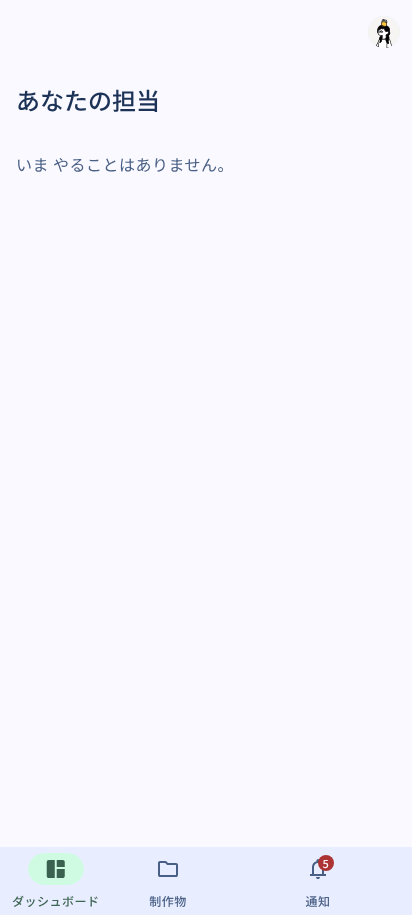
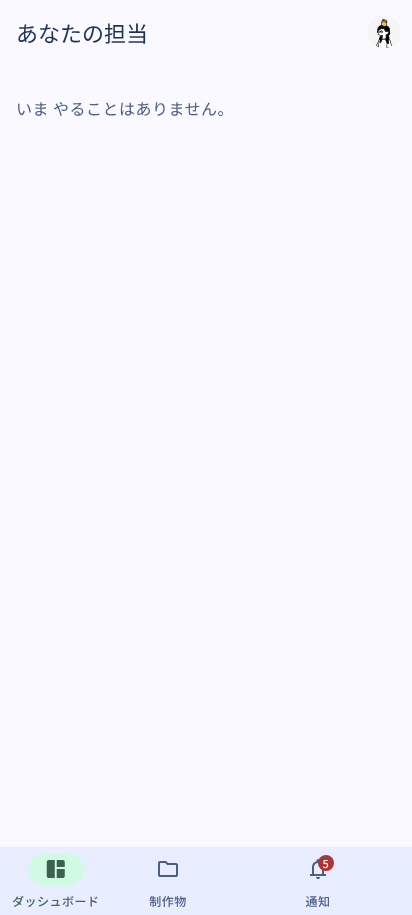
web: 画面の見出し（あなたの担当・制作物・管理）を共通アプリバーへ
M3 App bars の「ページの見出しはアプリバーに置く」をエディタ以外にも適用。
各画面は AppBarSlot slot="title" で差し込み、内容側の見出し行
（.page-header、ui/PageHeader.tsx）は削除。受け皿に role="heading"
aria-level=1 を付けて h1 を兼ねる。先頭ボタンが無い画面では見出しをバーの端
から 16 に。内容の上余白は 8 → 16。
docs: UI_M3E §17 末尾（アイコンの高さの原則）と §18、DECISIONS、
SCREENSHOTS、HANDOVER を更新。スクリーンショット 37 枚と a11y を再取得。

Claude-Session: https://claude.ai/code/session_01X9TznCihnnBEBhcMh6UZ9t

diff --git a/apps/web/src/routes/_app.tsx b/apps/web/src/routes/_app.tsx
@@ -32,7 +32,7 @@ const readRailPref = () => {
 
 /**
  * 認証ガード＋共通レイアウト。M3 のウィンドウサイズクラスで骨格を切り替える（Layout › Window size classes）。
- * - compact（<600）: アプリバーはアカウントだけ。下部ナビゲーションバー 3 件（ダッシュボード・制作物・通知）。
+ * - compact（<600）: アプリバーは見出しとアカウントだけ。下部ナビゲーションバー 3 件（ダッシュボード・制作物・通知）。
  *   エディタ（`/works/:id`）では下部バーを隠す（詳細画面）。アプリバーはどの幅でも 1 本で、エディタが戻る・題名・操作を差し込む。
  * - medium（600–839）/ expanded（840–1199）: 折りたたみレール（96）。メニューを押すと**モーダル**の展開レールが重なる（スクリム、Esc で閉じる）。
  * - large（1200 以上）: メニューで**標準**の展開レール（220）に広がり内容を押す。状態は保存。既定は折りたたみ。
@@ -164,7 +164,13 @@ function AppLayout() {
         {/* アプリバーは 1 本。画面ごとの見出し・戻る・操作は AppBarSlot で差し込む（M3 App bars）。全体の操作（通知・アカウント）は末尾 */}
         <M3eAppBar size="small" className="shell__appbar">
           <span slot="leading" id="appbar-leading" className="appbar-slot" />
-          <span slot="title" id="appbar-title" className="appbar-slot appbar-slot--title" />
+          <span
+            slot="title"
+            id="appbar-title"
+            className="appbar-slot appbar-slot--title"
+            role="heading"
+            aria-level={1}
+          />
           <span
             slot="subtitle"
             id="appbar-subtitle"

diff --git a/apps/web/src/routes/_app/works/index.tsx b/apps/web/src/routes/_app/works/index.tsx
@@ -5,14 +5,8 @@ import { useState } from "react";
 import { NewWorkDialog } from "@/features/work/NewWorkDialog";
 import { formatJstDate } from "@/lib/format";
 import { lifecycleLabel } from "@/lib/labels";
-import {
-  M3eActionList,
-  M3eFilterChip,
-  M3eFilterChipSet,
-  M3eHeading,
-  M3eIcon,
-  M3eListAction,
-} from "@/ui/m3e";
+import { AppBarSlot } from "@/ui/AppBarSlot";
+import { M3eActionList, M3eFilterChip, M3eFilterChipSet, M3eIcon, M3eListAction } from "@/ui/m3e";
 
 export const Route = createFileRoute("/_app/works/")({
   validateSearch: (s: Record<string, unknown>): { q?: string; new?: boolean } => ({
@@ -24,7 +18,7 @@ export const Route = createFileRoute("/_app/works/")({
 
 /**
  * U-02 制作物。探して開くだけの入口。行を押すとエディタ（最新版）が開く。登録はレールの FAB「制作物を登録」が開くダイアログ（`?new=1`）。
- * 検索語はアプリバーの検索から `q` で渡る。
+ * 検索語は `q` で渡る（検索バーは一旦外している）。見出し「制作物」は共通アプリバーに差し込む（M3 App bars）。
  */
 function Works() {
   const { q, new: creating } = Route.useSearch();
@@ -46,17 +40,7 @@ function Works() {
 
   return (
     <div className="works">
-      <header className="page-header">
-        <M3eHeading
-          variant="headline"
-          size="small"
-          level={1}
-          emphasized
-          className="page-header__title"
-        >
-          制作物
-        </M3eHeading>
-      </header>
+      <AppBarSlot slot="title">制作物</AppBarSlot>
       <M3eFilterChipSet aria-label="状態で絞り込み" className="works__filters">
         {(["active", "on_hold", "finalized"] as const).map((k) => (
           <M3eFilterChip

diff --git a/apps/web/src/routes/_app/index.tsx b/apps/web/src/routes/_app/index.tsx
@@ -3,6 +3,7 @@ import { createFileRoute, useNavigate } from "@tanstack/react-router";
 import { useQuery } from "convex/react";
 import type { FunctionReturnType } from "convex/server";
 import { formatJstDate, remaining } from "@/lib/format";
+import { AppBarSlot } from "@/ui/AppBarSlot";
 import { M3eActionList, M3eHeading, M3eListAction } from "@/ui/m3e";
 
 export const Route = createFileRoute("/_app/")({ component: Dashboard });
@@ -38,6 +39,7 @@ const backlogGroups: Array<[keyof Dashboard["backlog"], string, (i: Item) => str
 /**
  * U-00 ダッシュボード。開いた瞬間に「次に何をするか」が分かる画面。
  * 上: あなたの担当（役割ごとに自動で出る）。下: 自分が関わる制作物で溜まっているもの。行を押すとエディタへ直行。
+ * 画面の見出し「あなたの担当」は共通アプリバーに差し込む（M3 App bars: 見出しはアプリバーに置く）。
  */
 function Dashboard() {
   const data = useQuery(api.dashboard.get, {});
@@ -66,17 +68,7 @@ function Dashboard() {
 
   return (
     <div>
-      <header className="page-header">
-        <M3eHeading
-          variant="headline"
-          size="small"
-          level={1}
-          emphasized
-          className="page-header__title"
-        >
-          あなたの担当
-        </M3eHeading>
-      </header>
+      <AppBarSlot slot="title">あなたの担当</AppBarSlot>
       <div className="dash">
         <section className="dash__section">
           {mine.length === 0 ? (

diff --git a/apps/web/src/routes/_app/admin.tsx b/apps/web/src/routes/_app/admin.tsx
@@ -10,7 +10,7 @@ import { Card } from "@/ui/Card";
 import { StatusChip, StatusText } from "@/ui/Chip";
 import { AclPanel } from "@/features/work/AclPanel";
 import { M3eButton, M3eDialog, M3eIcon, M3eSearchBar } from "@/ui/m3e";
-import { PageHeader } from "@/ui/PageHeader";
+import { AppBarSlot } from "@/ui/AppBarSlot";
 
 export const Route = createFileRoute("/_app/admin")({ component: Admin });
 
@@ -27,11 +27,17 @@ function Admin() {
     await setAdmin({ userId: userId as Id<"users">, value });
   });
   if (!me) return null;
+  const title = <AppBarSlot slot="title">管理</AppBarSlot>;
   if (!me.isSystemAdmin)
-    return <div className="alert">管理画面は校正システム管理者のみ利用できます。</div>;
+    return (
+      <>
+        {title}
+        <div className="alert">管理画面は校正システム管理者のみ利用できます。</div>
+      </>
+    );
   return (
     <>
-      <PageHeader title="管理" />
+      {title}
       <div className="stack">
         <Card title="作品ごとの閲覧権限（個人 ACL）">
           <div className="table-wrap" tabIndex={0}>

diff --git a/docs/DECISIONS.md b/docs/DECISIONS.md
@@ -22,20 +22,20 @@
 
 ## 実装上の仮置き（制度ではなく技術判断。レビュー対象）
 
-| 項目                     | 仮置き                                                                                                                                                                                                                                                                                                                                                                                                                                                                                                                                                                                                                                                                                                                                                                                                                                    | 根拠・備考                                                                                                       |
-| ------------------------ | ----------------------------------------------------------------------------------------------------------------------------------------------------------------------------------------------------------------------------------------------------------------------------------------------------------------------------------------------------------------------------------------------------------------------------------------------------------------------------------------------------------------------------------------------------------------------------------------------------------------------------------------------------------------------------------------------------------------------------------------------------------------------------------------------------------------------------------------- | ---------------------------------------------------------------------------------------------------------------- |
-| 制作物の登録者           | **Nogiku の権限で管理する（利用者決定 2026-10-10）**。組織権限 `works:create` を要求。Nogiku Access 未接続の MVP では全員が `["*"]` を持ち制限なし。登録者は主管担当に含まれる                                                                                                                                                                                                                                                                                                                                                                                                                                                                                                                                                                                                                                                            | `packages/domain/src/acl/OrgPermission.ts`。接続時は `NOGIKU_ACCESS_ENABLED=true` と `users.orgPermissions` 同期 |
-| システム管理者の初期設定 | 環境変数 `MF100_SYSTEM_ADMIN_SUBJECTS` の Nogiku sub を初回ログインで昇格。以後は管理画面                                                                                                                                                                                                                                                                                                                                                                                                                                                                                                                                                                                                                                                                                                                                                 | ブートストラップ手段が必要                                                                                       |
-| ACL 候補ユーザー         | 一度でもログインした Nogiku ユーザーのみ検索可                                                                                                                                                                                                                                                                                                                                                                                                                                                                                                                                                                                                                                                                                                                                                                                            | Nogiku Access `users.read` 連携は後続                                                                            |
-| 校正者の割当             | **Nogiku の役職・個人で管理する（利用者決定）**。組織権限 `reviews:assign` または作品の制作者・edit 委任者。割当は閲覧 ACL を自動付与しない                                                                                                                                                                                                                                                                                                                                                                                                                                                                                                                                                                                                                                                                                               | 同上。閲覧範囲（D3）は管理者 ACL に集約                                                                          |
-| 校正の返信               | 受付中: 投稿権限者 / 終了後: 採否判断者のみ（**このままで良い — 利用者確認 2026-10-10**）                                                                                                                                                                                                                                                                                                                                                                                                                                                                                                                                                                                                                                                                                                                                                 | D5 の暫定を維持                                                                                                  |
-| 0版の再提出              | **可**（利用者決定 2026-10-10）。通常版提出前に限る。0版からの校了は**不可**                                                                                                                                                                                                                                                                                                                                                                                                                                                                                                                                                                                                                                                                                                                                                              | `planRevision`                                                                                                   |
-| 期限ジョブ               | 1 分間隔の cron。拒否自体は各 mutation の時刻比較                                                                                                                                                                                                                                                                                                                                                                                                                                                                                                                                                                                                                                                                                                                                                                                         | ジョブ遅延に依存しない（A-04）                                                                                   |
-| ユーザー指定 UI          | **v1**: サインイン済みの委員を名前・メールで検索して選ぶ（`users.search` / `UserPicker`）。候補は一度でもログインしたユーザー                                                                                                                                                                                                                                                                                                                                                                                                                                                                                                                                                                                                                                                                                                             | Nogiku Access のユーザー一覧連携後は `users.search` の実装差し替えのみ                                           |
-| 指摘の担当者・訂正・持越 | **v1**: 担当者は採否判断権限者が指定。本文訂正は投稿者本人のみで原文は履歴に残す。持越は新版受付中に採否判断権限者が人手で実行（位置は引き継がない）                                                                                                                                                                                                                                                                                                                                                                                                                                                                                                                                                                                                                                                                                      | AI 提案（D13）は後続                                                                                             |
-| コメントの分類           | **投稿者は分類しない**（利用者決定 2026-10-13）。UI は本文のみ。内部では種別「修正提案」・重大度「重要」で保存し、未解決が残れば理由なしの校了を拒否。採否は 反映済／不採用／次版へ持越 の 3 つ                                                                                                                                                                                                                                                                                                                                                                                                                                                                                                                                                                                                                                           | 「重大」の明示や重大度変更は D6 の協議後                                                                         |
-| 締切・納期の単位         | **日付のみ**（その日の 0:00 JST、利用者決定 2026-10-13）。表示に JST は書かない                                                                                                                                                                                                                                                                                                                                                                                                                                                                                                                                                                                                                                                                                                                                                           | `DateField` / `jstDateToEpoch`                                                                                   |
-| 画面構成（UI）           | **比較ページから利用者が選択（2026-10-13）**: 左メニュー＋検索バー＋右上アカウント、一覧は 2 行のリスト、制作物は左一覧・右中身、詳細は版が主役で情報は右、校正画面は下部ツールバー＋レイアウト 3 種（横一覧／ピンの高さに整列／ピンだけ）＋範囲指定で即投稿、コメントは Google ドキュメント式（✓ と ⋮）、版提出はダイアログ、版比較あり                                                                                                                                                                                                                                                                                                                                                                                                                                                                                                  | [`UI_M3E.md`](UI_M3E.md) §10                                                                                     |
-| 画面構成（IA）           | **3 画面＋管理（利用者決定 2026-10-13）**: ダッシュボード（担当・溜まっているもの、自分が関わる制作物のみ）／制作物（一覧＋登録ダイアログ）／エディタ（`/works/:id`、`/works/:id/v/N`。引き出し コメント／版／情報）。通知はベルのパネルだけ。左メニューは 2 つ                                                                                                                                                                                                                                                                                                                                                                                                                                                                                                                                                                           | [`UI_M3E.md`](UI_M3E.md) §11                                                                                     |
-| サイドバーとレイアウト   | **M3 のウィンドウサイズクラスに従う（利用者承認 2026-10-14）**: compact（<600）は下部バー 3 件（ダッシュボード・制作物・通知）、medium 以上はレール（メニュー・FAB「制作物を登録」・行き先）。expanded（840–1199）はモーダル展開、large（≥1200）は標準展開で既定は折りたたみ。補助ペインは expanded 360 / large 以上 412（Scaffold: bars / rails / panes、スペーサー 24）。余白は compact 16 / medium 以上 24（原典で確定）。通知は medium 以上が幅 360 の浮遊パネル、compact はボトムシート。バッジ・検索バー・メニューは規定寸法。medium でもモーダル展開レール、固定ペインはドラッグハンドルでリサイズ（360 / 412 スナップ・折りたたみ）、compact の補助的な選択はボトムシート、RTL は論理プロパティで鏡映（§15 監査）。折りたたみレールはアイコンのみ（ラベルはツールチップ。展開で項目が動かないように。M3 Expressive からは外れる） | [`UI_M3E.md`](UI_M3E.md) §12–15                                                                                  |
-| 版の無効化               | **v1**: 受付中の版のみ、提出権限者が理由付きで無効化。番号は欠番                                                                                                                                                                                                                                                                                                                                                                                                                                                                                                                                                                                                                                                                                                                                                                          | §5.1 `void`。校了済み・受付終了後は不可                                                                          |
+| 項目                     | 仮置き                                                                                                                                                                                                                                                                                                                                                                                                                                                                                                                                                                                                                                                                                                                                                                                                                                                                                                                                                                                          | 根拠・備考                                                                                                       |
+| ------------------------ | ----------------------------------------------------------------------------------------------------------------------------------------------------------------------------------------------------------------------------------------------------------------------------------------------------------------------------------------------------------------------------------------------------------------------------------------------------------------------------------------------------------------------------------------------------------------------------------------------------------------------------------------------------------------------------------------------------------------------------------------------------------------------------------------------------------------------------------------------------------------------------------------------------------------------------------------------------------------------------------------------- | ---------------------------------------------------------------------------------------------------------------- |
+| 制作物の登録者           | **Nogiku の権限で管理する（利用者決定 2026-10-10）**。組織権限 `works:create` を要求。Nogiku Access 未接続の MVP では全員が `["*"]` を持ち制限なし。登録者は主管担当に含まれる                                                                                                                                                                                                                                                                                                                                                                                                                                                                                                                                                                                                                                                                                                                                                                                                                  | `packages/domain/src/acl/OrgPermission.ts`。接続時は `NOGIKU_ACCESS_ENABLED=true` と `users.orgPermissions` 同期 |
+| システム管理者の初期設定 | 環境変数 `MF100_SYSTEM_ADMIN_SUBJECTS` の Nogiku sub を初回ログインで昇格。以後は管理画面                                                                                                                                                                                                                                                                                                                                                                                                                                                                                                                                                                                                                                                                                                                                                                                                                                                                                                       | ブートストラップ手段が必要                                                                                       |
+| ACL 候補ユーザー         | 一度でもログインした Nogiku ユーザーのみ検索可                                                                                                                                                                                                                                                                                                                                                                                                                                                                                                                                                                                                                                                                                                                                                                                                                                                                                                                                                  | Nogiku Access `users.read` 連携は後続                                                                            |
+| 校正者の割当             | **Nogiku の役職・個人で管理する（利用者決定）**。組織権限 `reviews:assign` または作品の制作者・edit 委任者。割当は閲覧 ACL を自動付与しない                                                                                                                                                                                                                                                                                                                                                                                                                                                                                                                                                                                                                                                                                                                                                                                                                                                     | 同上。閲覧範囲（D3）は管理者 ACL に集約                                                                          |
+| 校正の返信               | 受付中: 投稿権限者 / 終了後: 採否判断者のみ（**このままで良い — 利用者確認 2026-10-10**）                                                                                                                                                                                                                                                                                                                                                                                                                                                                                                                                                                                                                                                                                                                                                                                                                                                                                                       | D5 の暫定を維持                                                                                                  |
+| 0版の再提出              | **可**（利用者決定 2026-10-10）。通常版提出前に限る。0版からの校了は**不可**                                                                                                                                                                                                                                                                                                                                                                                                                                                                                                                                                                                                                                                                                                                                                                                                                                                                                                                    | `planRevision`                                                                                                   |
+| 期限ジョブ               | 1 分間隔の cron。拒否自体は各 mutation の時刻比較                                                                                                                                                                                                                                                                                                                                                                                                                                                                                                                                                                                                                                                                                                                                                                                                                                                                                                                                               | ジョブ遅延に依存しない（A-04）                                                                                   |
+| ユーザー指定 UI          | **v1**: サインイン済みの委員を名前・メールで検索して選ぶ（`users.search` / `UserPicker`）。候補は一度でもログインしたユーザー                                                                                                                                                                                                                                                                                                                                                                                                                                                                                                                                                                                                                                                                                                                                                                                                                                                                   | Nogiku Access のユーザー一覧連携後は `users.search` の実装差し替えのみ                                           |
+| 指摘の担当者・訂正・持越 | **v1**: 担当者は採否判断権限者が指定。本文訂正は投稿者本人のみで原文は履歴に残す。持越は新版受付中に採否判断権限者が人手で実行（位置は引き継がない）                                                                                                                                                                                                                                                                                                                                                                                                                                                                                                                                                                                                                                                                                                                                                                                                                                            | AI 提案（D13）は後続                                                                                             |
+| コメントの分類           | **投稿者は分類しない**（利用者決定 2026-10-13）。UI は本文のみ。内部では種別「修正提案」・重大度「重要」で保存し、未解決が残れば理由なしの校了を拒否。採否は 反映済／不採用／次版へ持越 の 3 つ                                                                                                                                                                                                                                                                                                                                                                                                                                                                                                                                                                                                                                                                                                                                                                                                 | 「重大」の明示や重大度変更は D6 の協議後                                                                         |
+| 締切・納期の単位         | **日付のみ**（その日の 0:00 JST、利用者決定 2026-10-13）。表示に JST は書かない                                                                                                                                                                                                                                                                                                                                                                                                                                                                                                                                                                                                                                                                                                                                                                                                                                                                                                                 | `DateField` / `jstDateToEpoch`                                                                                   |
+| 画面構成（UI）           | **比較ページから利用者が選択（2026-10-13）**: 左メニュー＋検索バー＋右上アカウント、一覧は 2 行のリスト、制作物は左一覧・右中身、詳細は版が主役で情報は右、校正画面は下部ツールバー＋レイアウト 3 種（横一覧／ピンの高さに整列／ピンだけ）＋範囲指定で即投稿、コメントは Google ドキュメント式（✓ と ⋮）、版提出はダイアログ、版比較あり                                                                                                                                                                                                                                                                                                                                                                                                                                                                                                                                                                                                                                                        | [`UI_M3E.md`](UI_M3E.md) §10                                                                                     |
+| 画面構成（IA）           | **3 画面＋管理（利用者決定 2026-10-13）**: ダッシュボード（担当・溜まっているもの、自分が関わる制作物のみ）／制作物（一覧＋登録ダイアログ）／エディタ（`/works/:id`、`/works/:id/v/N`。引き出し コメント／版／情報）。通知はベルのパネルだけ。左メニューは 2 つ                                                                                                                                                                                                                                                                                                                                                                                                                                                                                                                                                                                                                                                                                                                                 | [`UI_M3E.md`](UI_M3E.md) §11                                                                                     |
+| サイドバーとレイアウト   | **M3 のウィンドウサイズクラスに従う（利用者承認 2026-10-14）**: compact（<600）は下部バー 3 件（ダッシュボード・制作物・通知）、medium 以上はレール（メニュー・FAB「制作物を登録」・行き先）。expanded（840–1199）はモーダル展開、large（≥1200）は標準展開で既定は折りたたみ。補助ペインは expanded 360 / large 以上 412（Scaffold: bars / rails / panes、スペーサー 24）。余白は compact 16 / medium 以上 24（原典で確定）。通知は medium 以上が幅 360 の浮遊パネル、compact はボトムシート。バッジ・検索バー・メニューは規定寸法。medium でもモーダル展開レール、固定ペインはドラッグハンドルでリサイズ（360 / 412 スナップ・折りたたみ）、compact の補助的な選択はボトムシート、RTL は論理プロパティで鏡映（§15 監査）。折りたたみレールはアイコンのみ（ラベルはツールチップ。M3 Expressive からは外れる）。**原則: ナビのアイコンの高さは一切動かさない（Gmail と同じ。利用者決定）**。縦方向の短い動きだけ 0ms、横方向の動きは残す（§17）。画面の見出しはすべて共通アプリバーに置く（§18） | [`UI_M3E.md`](UI_M3E.md) §12–18                                                                                  |
+| 版の無効化               | **v1**: 受付中の版のみ、提出権限者が理由付きで無効化。番号は欠番                                                                                                                                                                                                                                                                                                                                                                                                                                                                                                                                                                                                                                                                                                                                                                                                                                                                                                                                | §5.1 `void`。校了済み・受付終了後は不可                                                                          |

diff --git a/docs/HANDOVER.md b/docs/HANDOVER.md
@@ -9,7 +9,7 @@
 - Convex: スキーマ、Nogiku OIDC provider（UniQ 由来）とモック、ポートアダプタ、公開関数一式、cron、convex-test による統合テスト。
 - Hono API: R2 ストリーミング提出（sha256 検証、サイズ照合、失敗記録）、認可付き配信、JWT 検証、CORS。
 - Web デモモード（`--mode demo`）: バックエンド無しで Convex の実関数をブラウザ内実行。Playwright で 37 画面を撮影済み（`docs/screenshots`）。
-- **Material 3 Expressive 適用**（[`UI_M3E.md`](UI_M3E.md)）: テーマを body 直下に移して動的カラー・ダークモードを有効化、フォーム／カード／チップ／リスト／ナビ／ステッパー／日付ピッカーを M3E 部品に置換。2 回目以降の見直しで情報量と塗りを削減し（`UI_M3E.md` §8–9）、4 回目で利用者が比較ページから選んだ構成（検索バー付きアプリバー、2 行リスト、list-detail、下部ツールバーとレイアウト切替、範囲指定で即投稿、Google ドキュメント式のコメント、提出ダイアログ、版比較）に作り直した（§10）。5 回目で画面構成そのものを **ダッシュボード／制作物／エディタ** の 3 画面＋管理に絞り、通知はベルのパネル、URL は制作物が主語にした（§11）。6 回目でサイドバーとレイアウトを M3 のウィンドウサイズクラス（600 / 840 / 1200）に合わせ、レール（メニュー・FAB「制作物を登録」・行き先。large は標準展開、expanded はモーダル展開）と compact の下部バー 3 件（通知を含む）にした（§12）。compact は検索バーがアプリバー（アバター 30 を末尾）、エディタは独自のトップアプリバー＋幅に合わせた紙面＋覗き見のボトムシート（§12 後半）。M3 の Layout scaffold（bars / rails / panes）に当てはめ、固定ペインは expanded 360 / large 以上 412（§13）。その後 m3.material.io を Allowed domains に加え、本文 JSON（`/_dsm/content/...`）を ax で取って規定値を確定: compact 余白 16、バッジ 16 高さ・アイコン枠の上端後端、検索バーの先頭 24・ラベル 64・アバター 30、メニュー 280。アプリバーのバッジはアイコンボタンの外に置いて欠けを解消し、compact の通知はボトムシートにした（§14）。M3 Layout 全 21 ページの要件を監査し、ドラッグハンドル・medium のモーダル展開レール・compact のボトムシート・セーフエリア・48 のタッチ領域・4dp 刻み・RTL を直した（§15）。検索バーは一旦外し、レールのメニューをアプリバーのアイコン中心（32）に揃えた（§16）。エディタの見出し・戻る・確認完了は共通アプリバーへ差し込み（`ui/AppBarSlot.tsx`）、ペインの操作は縦の浮遊ツールバー、添付切替は下部ツールバーのメニューにして紙面の高さを最大化した（§17）。締切・納期は日付のみ（0:00 JST）。
+- **Material 3 Expressive 適用**（[`UI_M3E.md`](UI_M3E.md)）: テーマを body 直下に移して動的カラー・ダークモードを有効化、フォーム／カード／チップ／リスト／ナビ／ステッパー／日付ピッカーを M3E 部品に置換。2 回目以降の見直しで情報量と塗りを削減し（`UI_M3E.md` §8–9）、4 回目で利用者が比較ページから選んだ構成（検索バー付きアプリバー、2 行リスト、list-detail、下部ツールバーとレイアウト切替、範囲指定で即投稿、Google ドキュメント式のコメント、提出ダイアログ、版比較）に作り直した（§10）。5 回目で画面構成そのものを **ダッシュボード／制作物／エディタ** の 3 画面＋管理に絞り、通知はベルのパネル、URL は制作物が主語にした（§11）。6 回目でサイドバーとレイアウトを M3 のウィンドウサイズクラス（600 / 840 / 1200）に合わせ、レール（メニュー・FAB「制作物を登録」・行き先。large は標準展開、expanded はモーダル展開）と compact の下部バー 3 件（通知を含む）にした（§12）。compact は検索バーがアプリバー（アバター 30 を末尾）、エディタは独自のトップアプリバー＋幅に合わせた紙面＋覗き見のボトムシート（§12 後半）。M3 の Layout scaffold（bars / rails / panes）に当てはめ、固定ペインは expanded 360 / large 以上 412（§13）。その後 m3.material.io を Allowed domains に加え、本文 JSON（`/_dsm/content/...`）を ax で取って規定値を確定: compact 余白 16、バッジ 16 高さ・アイコン枠の上端後端、検索バーの先頭 24・ラベル 64・アバター 30、メニュー 280。アプリバーのバッジはアイコンボタンの外に置いて欠けを解消し、compact の通知はボトムシートにした（§14）。M3 Layout 全 21 ページの要件を監査し、ドラッグハンドル・medium のモーダル展開レール・compact のボトムシート・セーフエリア・48 のタッチ領域・4dp 刻み・RTL を直した（§15）。検索バーは一旦外し、レールのメニューをアプリバーのアイコン中心（32）に揃えた（§16）。エディタの見出し・戻る・確認完了は共通アプリバーへ差し込み（`ui/AppBarSlot.tsx`）、ペインの操作は縦の浮遊ツールバー、添付切替は下部ツールバーのメニューにして紙面の高さを最大化した（§17）。利用者決定の原則「ナビのアイコンの高さは一切動かさない」を実装（折りたたみレールはアイコンのみ、縦方向の短い動きだけ 0ms。§17 末尾）。ダッシュボード・制作物・管理の見出しも共通アプリバーに移した（§18）。締切・納期は日付のみ（0:00 JST）。
 - **v1 追加**（[`V1_GAP.md`](V1_GAP.md)）: 専門確認と校了ガード、指摘の担当者・訂正・次版持越、版の無効化、アプリ内通知と期限リマインド、放置セッション清掃と R2 孤立オブジェクト削除、ユーザー選択 UI、制作物の編集・ライフサイクル、外部媒体の議論結果記録、文章の閲覧・範囲指摘、axe-core によるアクセシビリティ監査（19 画面で指摘 0）。
 - Web: サインイン（本物／モック）、ダッシュボード（あなたの担当・溜まっているもの）、制作物一覧・登録、エディタ（PDF.js／画像／文章の矩形・ピン・範囲、スレッド、採否、返信、確認完了、版の履歴・提出・比較・無効化、基本情報・校了・編集・閲覧権限・専門確認）、通知のベル、管理（ACL・管理者付与・監査ログ）。本番ビルド成功。
 

diff --git a/docs/SCREENSHOTS.md b/docs/SCREENSHOTS.md
@@ -2,7 +2,7 @@
 
 `apps/web` の**デモモード**（`pnpm build:demo` → `vp preview --mode demo`、バックエンド無しで Convex の実関数を `convex-test` によりブラウザ内実行）で、Nogiku モック委員 5 名を切り替えながら「登録済み制作物 → 版提出（専門確認の宣言） → 割当 → 指摘 → 専門確認完了 → 採否 → 第2版提出と指摘の持越 → 版比較 → 校了 → 通知」を一周して撮影した（v1 機能を含む）。撮影スクリプト: `apps/web/e2e/screenshots.mjs`（`pnpm screenshots`）。
 
-画面構成は 2026-10-13 の見直し（[`UI_M3E.md`](UI_M3E.md) §11）に従う: **ダッシュボード／制作物／エディタ** の 3 画面＋管理。通知はアプリバーのベル（compact では下部バーの「通知」からボトムシート）。制作物に関する操作はすべてエディタの引き出し（コメント／版／情報）で行う。エディタの見出し・戻る・確認完了は共通アプリバーに入り、引き出しの開閉は紙面右端の縦ツールバー（§17）。サイドバーとレイアウトは M3 のウィンドウサイズクラス（§12）: 600 以上はレール（メニュー・FAB「制作物を登録」・行き先。折りたたみ時はアイコンのみ）、599 以下はアプリバー（アカウントだけ）＋下部バー。検索バーは 2026-10-14 に一旦外した。compact のエディタは共通バーを消し、独自のトップアプリバーと覗き見のボトムシート。
+画面構成は 2026-10-13 の見直し（[`UI_M3E.md`](UI_M3E.md) §11）に従う: **ダッシュボード／制作物／エディタ** の 3 画面＋管理。通知はアプリバーのベル（compact では下部バーの「通知」からボトムシート）。制作物に関する操作はすべてエディタの引き出し（コメント／版／情報）で行う。エディタの見出し・戻る・確認完了は共通アプリバーに入り、引き出しの開閉は紙面右端の縦ツールバー（§17）。サイドバーとレイアウトは M3 のウィンドウサイズクラス（§12）: 600 以上はレール（メニュー・FAB「制作物を登録」・行き先。折りたたみ時はアイコンのみ）、599 以下はアプリバー（見出し＋アカウント）＋下部バー。ダッシュボード・制作物・管理の見出しもアプリバーに入る（§18）。検索バーは 2026-10-14 に一旦外した。compact のエディタは共通バーを消し、独自のトップアプリバーと覗き見のボトムシート。
 
 | #   | 画面                                                                              | 役割           | 画像                                           |
 | --- | --------------------------------------------------------------------------------- | -------------- | ---------------------------------------------- |
